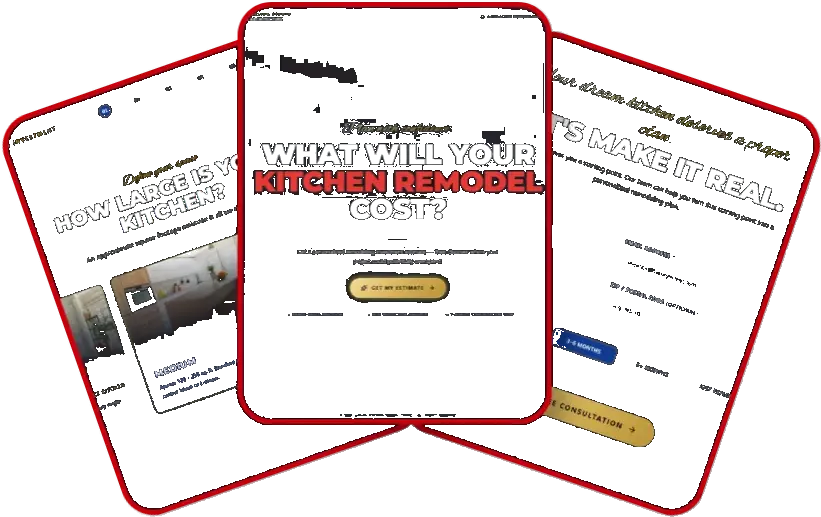
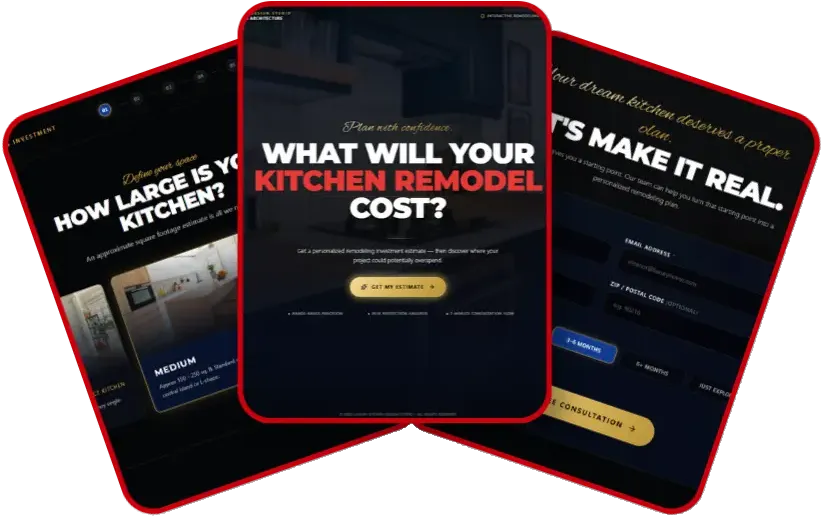
Fix preview graphic opacity using flood fill for 100 percent solid phone screens with transparent background

diff --git a/style.css b/style.css
@@ -1647,12 +1647,11 @@ button, input, select, textarea {
 }
 
 .sticky-preview-img {
-  height: 130px;
+  height: 125px;
   width: auto;
-  border-radius: 0;
+  border-radius: 14px;
   border: none;
-  background: transparent;
-  filter: drop-shadow(0 12px 20px rgba(0, 0, 0, 0.7));
+  box-shadow: 0 16px 35px rgba(0, 0, 0, 0.7);
   object-fit: contain;
   transition: transform 0.3s ease;
 }
